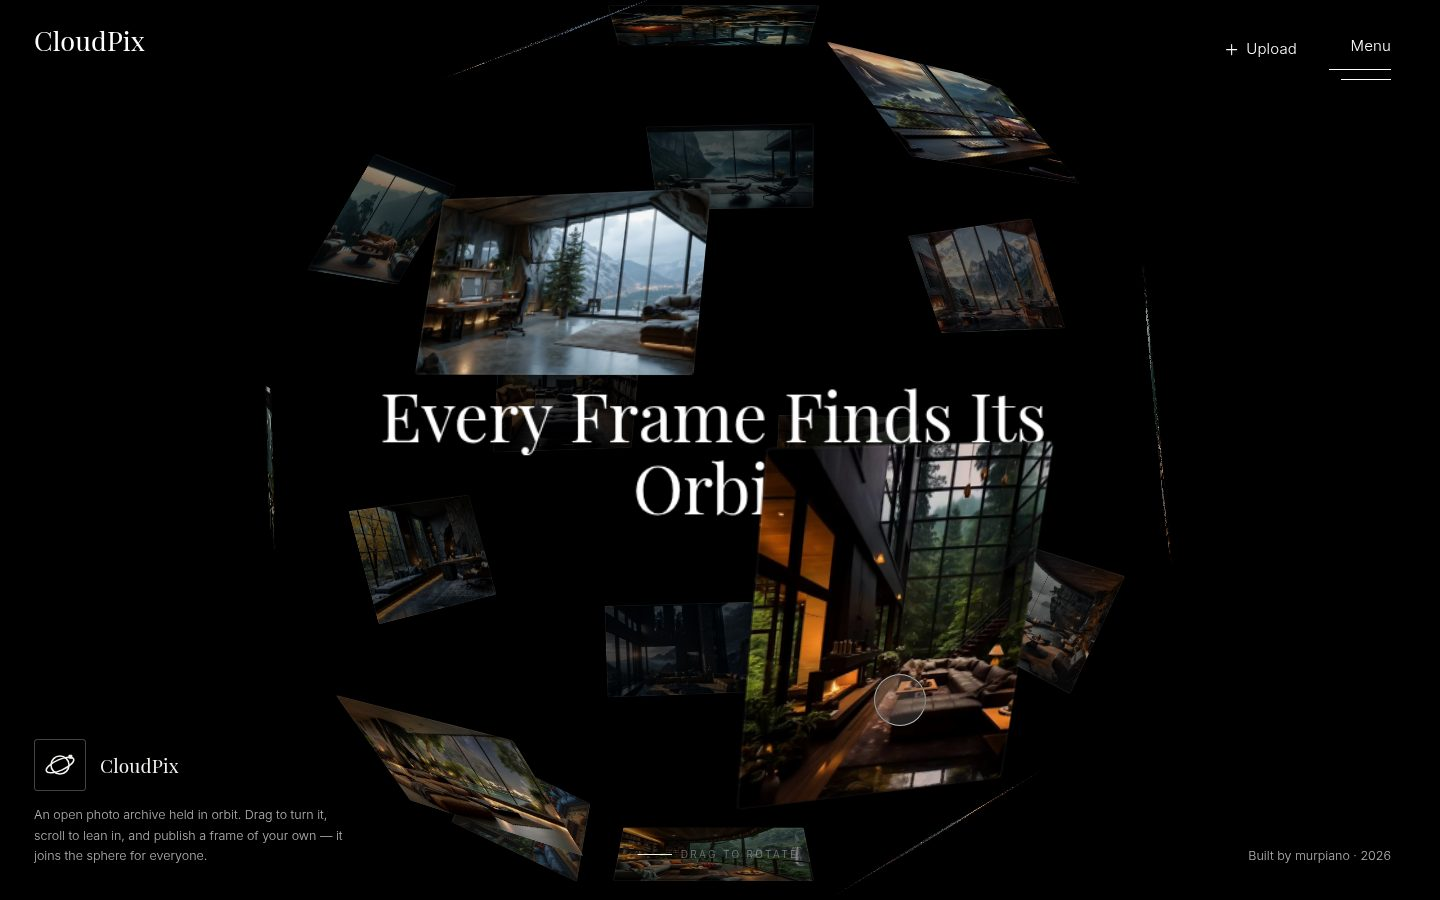
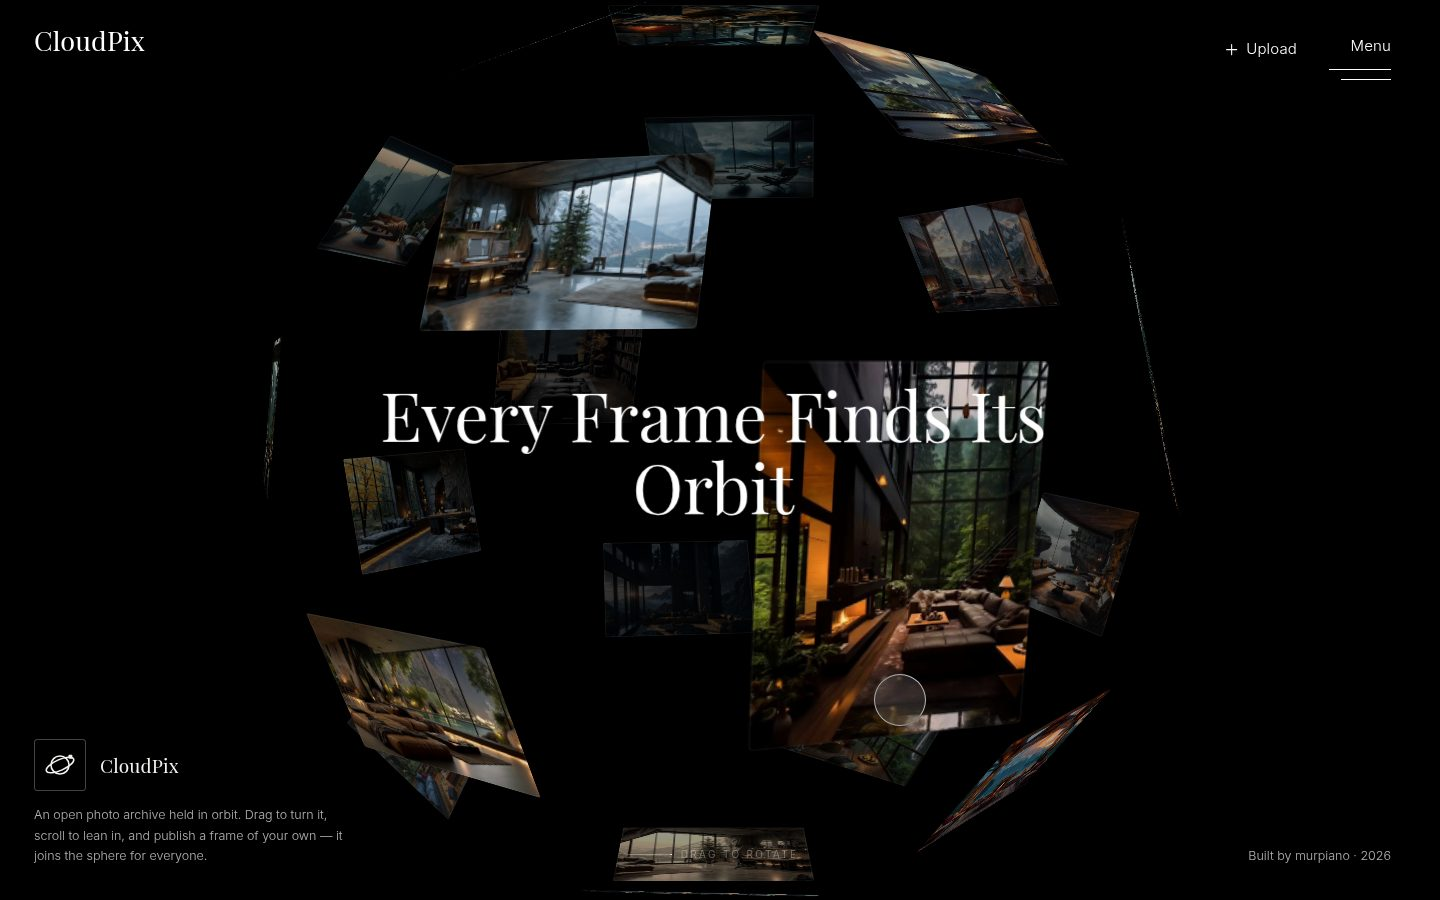
docs: describe free rotation, cross-fading viewer and server limits

diff --git a/README.md b/README.md
@@ -9,16 +9,20 @@ browser.
 **Live:** https://murpiano.github.io/cloudpix-platform/
 
 > The backend runs on a free Render instance that falls asleep when idle. The first visit can take
-> up to a minute; the loading screen says so while the server wakes up.
+> up to a minute; the loading screen and the upload form say so while the server wakes up. Frames
+> uploaded by visitors live until the instance restarts.
 
 ## Highlights
 
 - **3D frame sphere without WebGL.** Cards sit on a Fibonacci lattice and are placed with CSS 3D
-  transforms. A single `requestAnimationFrame` loop drives drag inertia, a scroll dolly and
-  per-card depth shading. It writes to the DOM only when a value changes.
+  transforms. Drags build up a rotation matrix (a trackball, not yaw/pitch angles), so the sphere
+  turns freely in any direction, over the poles too, with mouse, pen or touch. A single
+  `requestAnimationFrame` loop drives inertia, a scroll dolly and per-card depth shading. It writes
+  to the DOM only when a value changes.
 - **FLIP lightbox.** A frame grows out of the exact card or tile you clicked and returns there on
-  close. The decoded thumbnail shows at once, and the full-size file replaces it when it loads.
-  ← / → move between frames.
+  close. ← / → cross-fade between frames on two stacked layers. The picture box has a fixed size,
+  so paging never makes it jump. The decoded thumbnail shows at once, and the full-size file
+  replaces it when it loads. Comments scroll inside their own panel.
 - **Studio with baked effects.** Five looks (Mono, Noir, Vintage, Glow, Soft Blur), strength and
   centre crop preview live with CSS filters. On publish, a canvas renders the same filter chain
   into a JPEG. The archive shows exactly what the author saw.
